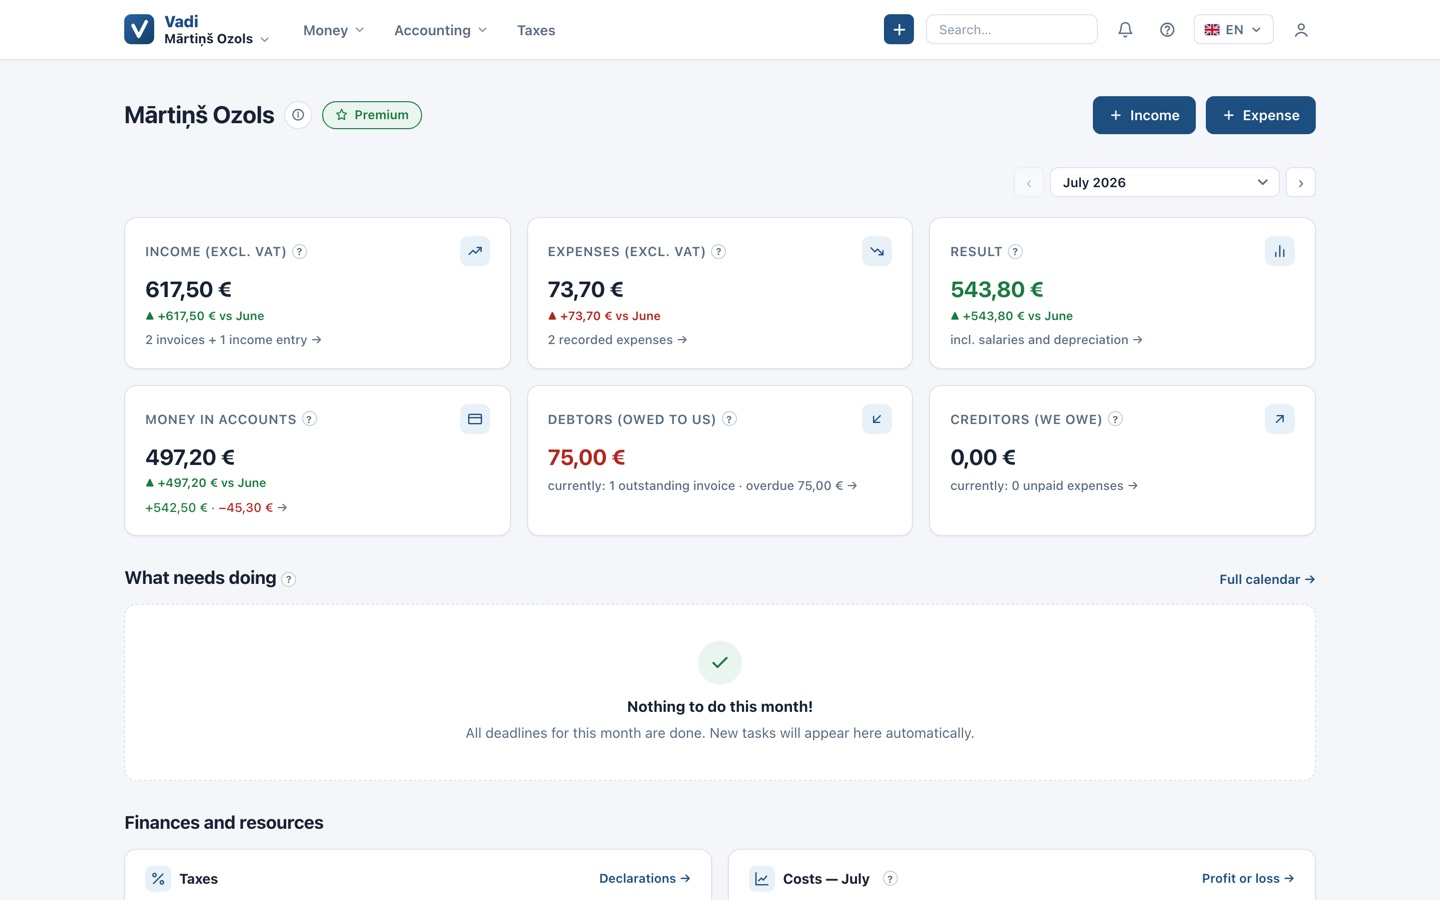
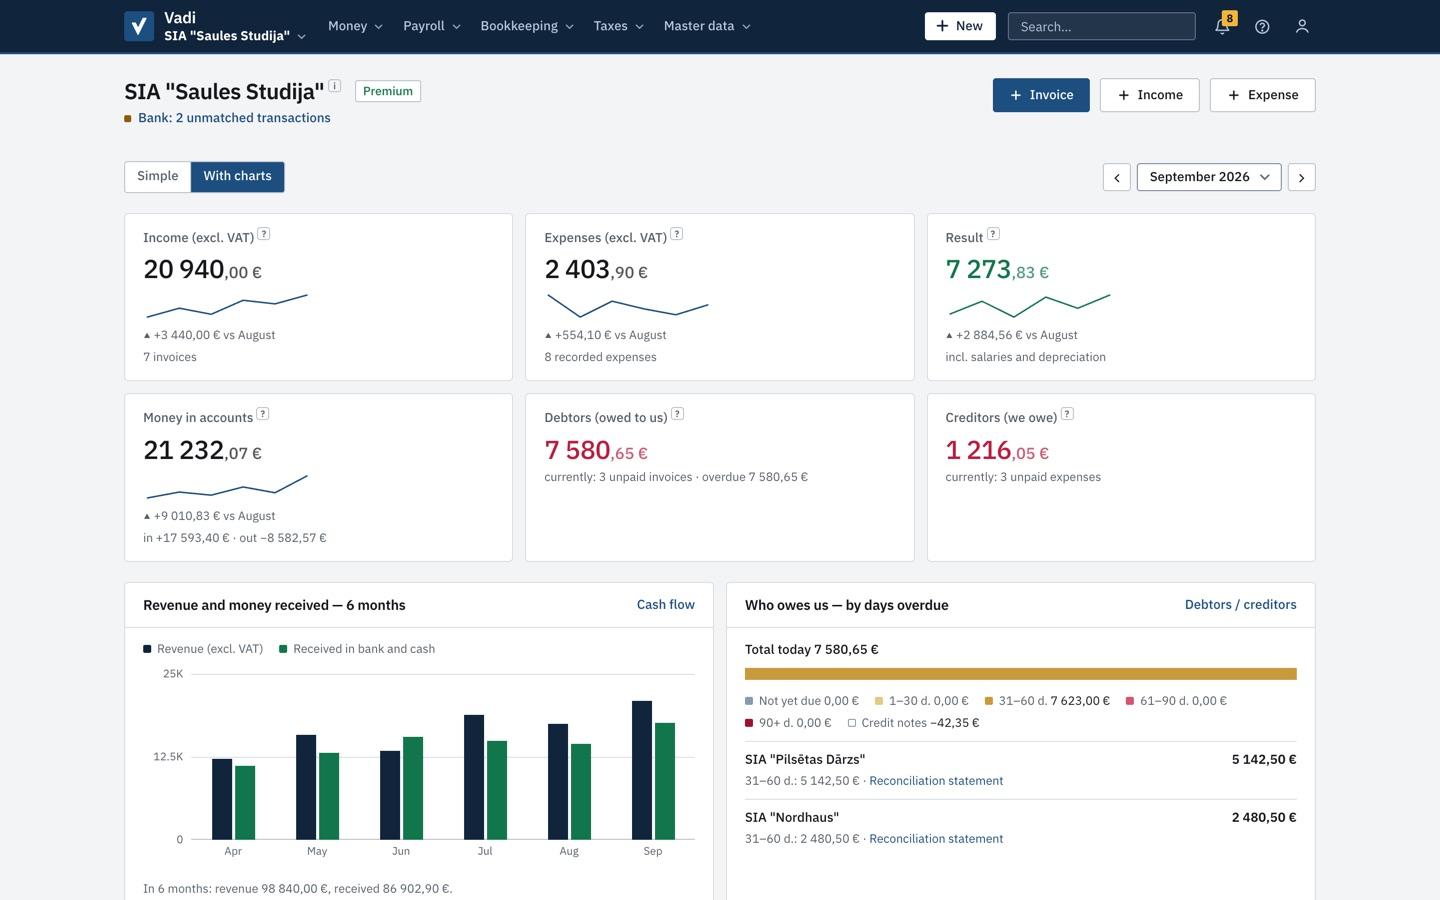
feat: Vadi in the clients strip with the new mark; Vadi case, hero window and spotlight re-shot in the new design

diff --git a/src/data/projects.ts b/src/data/projects.ts
@@ -47,7 +47,7 @@ export const projects: Project[] = [
     slug: 'vadi',
     title: 'Vadi',
     seoTitle: 'Vadi — Accounting SaaS for Latvian Businesses',
-    updated: '2026-10-02',
+    updated: '2026-11-20',
     own: true,
     category: 'Fintech',
     layout: 'landscape',
@@ -89,12 +89,13 @@ export const projects: Project[] = [
       channel that feeds the trial, while accountants get a shared workspace for
       the clients they manage.
     `,
-    image: '/projects/covers/vadi.webp?v=4',
+    image: '/projects/covers/vadi.webp?v=5',
     images: [
-      '/projects/screenshots/vadi-dashboard.jpg?v=4',
-      '/projects/screenshots/vadi-finances.jpg?v=4',
-      '/projects/screenshots/vadi-income.jpg?v=4',
-      '/projects/screenshots/vadi-tax-calendar.jpg?v=4',
+      '/projects/screenshots/vadi-dashboard.jpg?v=5',
+      '/projects/screenshots/vadi-tax-calendar.jpg?v=5',
+      '/projects/screenshots/vadi-income.jpg?v=5',
+      '/projects/screenshots/vadi-expenses.jpg?v=5',
+      '/projects/screenshots/vadi-finances.jpg?v=5',
     ],
     logo: '/projects/logos/vadi.svg',
     link: 'https://vadi.lv/',

diff --git a/src/i18n/dictionaries/lv.ts b/src/i18n/dictionaries/lv.ts
@@ -129,7 +129,7 @@ const lv: Dictionary = {
     eyebrow: 'Projekta apraksts · mūsu produkts',
     title: 'Grāmatvedība, kas pati pasaka, kas jādara',
     text: 'Vadi ir mūsu pašu SaaS pašnodarbinātajiem un maziem uzņēmumiem Latvijā: nodokļu kalendārs ar jau aprēķinātām summām, algas ar pilnu aprēķinu no bruto līdz neto, bankas izrakstu sasaiste un deklarācijas tieši tādā formātā, kādu sagaida VID.',
-    imageAlt: 'Vadi panelis - jūlija pārskats ar ieņēmumiem, izdevumiem, rezultātu un nodokļu kalendāru',
+    imageAlt: 'Vadi panelis - septembra pārskats ar ieņēmumiem, izdevumiem, rezultātu, naudu kontos un debitoriem',
     caseLabel: 'Vadi projekta apraksts',
     facts: [
       { label: 'Astoņi bezmaksas nodokļu kalkulatori', sub: 'ar šī gada likmēm' },

diff --git a/src/i18n/dictionaries/en.ts b/src/i18n/dictionaries/en.ts
@@ -131,7 +131,7 @@ const en = {
     eyebrow: 'Case study · own product',
     title: 'Accounting that tells you what to do',
     text: 'Vadi is our own SaaS for Latvian sole traders and small companies: a tax calendar with the amounts already calculated, payroll with a full gross-to-net breakdown, bank statement matching and declarations that leave the system in the exact format the tax office expects.',
-    imageAlt: 'Vadi dashboard — July overview with income, expenses, result and the tax calendar',
+    imageAlt: 'Vadi dashboard — September overview with income, expenses, result, money in accounts and receivables',
     caseLabel: 'Vadi case study',
     facts: [
       { label: 'Eight free tax calculators', sub: 'on current-year rates' },

diff --git a/src/components/client-logos.tsx b/src/components/client-logos.tsx
@@ -8,6 +8,7 @@ import { getI18n } from '@/i18n/server';
 ====================================================== */
 
 const CLIENTS = [
+  { name: 'Vadi', logo: '/projects/logos/vadi.svg' },
   { name: 'Overline', logo: '/projects/logos/overline.svg' },
   { name: 'Institut de Français', logo: '/projects/logos/institut-de-francais-villefranche.png' },
   { name: 'Lepicur', logo: '/projects/logos/lepicur.png' },

diff --git a/src/components/spotlight.tsx b/src/components/spotlight.tsx
@@ -29,7 +29,7 @@ export default async function Spotlight() {
             aria-label={s.caseLabel}
           >
             <Image
-              src="/projects/spotlight/vadi-overview.jpg"
+              src="/projects/spotlight/vadi-overview.jpg?v=2"
               alt={s.imageAlt}
               width={1440}
               height={900}

diff --git a/src/components/hero-windows.tsx b/src/components/hero-windows.tsx
@@ -15,7 +15,7 @@ const WINDOWS = [
     delay: '-2.5s',
   },
   {
-    src: '/projects/covers/vadi.webp?v=4',
+    src: '/projects/covers/vadi.webp?v=5',
     className: 'left-[6%] bottom-0 w-[80%]',
     delay: '-5s',
   },
